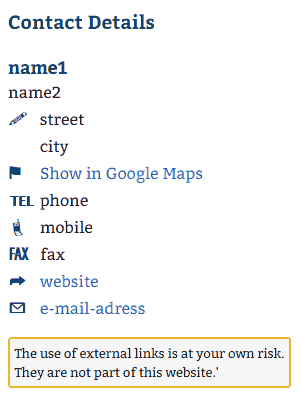
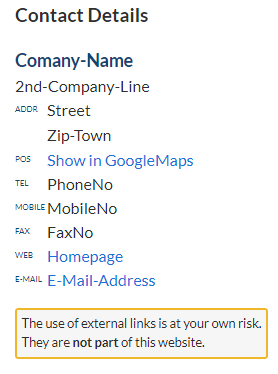
Update for new Yellow API

Changed region(s): [[0.0288, 0.1176, 0.6906, 0.7941], [0.0, 0.8235, 0.9784, 1.0], [0.0288, 0.0, 0.5468, 0.0882]]

diff --git a/adr.css b/adr.css
@@ -1,0 +1,3 @@
+div.adr {border-radius: 0.2rem; border: 0.1rem solid #F2C11E; padding:0.3rem; margin:1rem 0;background-color:#f7f7f7;display:inline-block;font-size:0.8em;}
+span.adr {font-size: 1.1em; color:#094A7A;font-weight:bold;display:inline-block;min-width:1.8em;}
+span.ico {position: relative; top: -0.5em; font-size: 0.5em; color:#094A7A; display:inline-block;min-width:4em;}

diff --git a/adr.php b/adr.php
@@ -3,9 +3,11 @@
 // Copyright (c) 2018 Norbert Simon, nosi@nosi.de
 // This file may be used and distributed under the terms of the public license.
 // 2018-11-12 Initial Release
+// 2019-03-03 Update to new YELLOW API, language stripped from code to files
+// Icons gegen text getauscht
 
 class Yellowadr {
-    const VERSION = "1.0";
+    const VERSION = "1.1";
     public $yellow;         //access to API
     
     // Handle initialisation
@@ -18,36 +20,31 @@ class Yellowadr {
         if ($name=="adr" && $shortcut) {
 			list($who,$street, $city, $phone, $web, $mail,$person,$fax,$mobile) = $this->yellow->toolbox->getTextArgs($text);
 			$root = (!empty($_SERVER['HTTPS']) ? 'https' : 'http') . '://' . $_SERVER['HTTP_HOST'];
-			$lng = $_SERVER['HTTP_ACCEPT_LANGUAGE'];
-			if (preg_match('/de/i', $lng)) {
-				$hdl = 'Kontaktdaten';
-				$hdlink = 'Externer Link zur Anbieterseite';
-				$hdmap = 'In GoogleMaps anzeigen';
-				$hdq = 'Anfrage%20von%20';
-				$hdem = 'E-Mail per Mailprogramm';
-				$hddis = 'Das Nutzen externer Links erfolgt auf eigene Gefahr.<br/>Sie sind <b>kein Bestandteil</b> dieser Webseite(n).';
-			} 
-			else {
-				$hdl = 'Contact Details';
-				$hdlink = 'External link to provider page';
-				$hdmap = 'Show in GoogleMaps';
-				$hdq = 'Inquiry%20from%20';
-				$hdem = 'E-Mail by your E-Mail Program';
-				$hddis = 'The use of external links is at your own risk.<br/>They are <b>not part</b> of this website.';
-			}
+			$lng = $this->yellow->page->get("language");
+						
             $result = preg_replace('/(\n|\s)+/i','+',$street . '+' . $city);
-			$output .='<div><h3>'.$hdl.'</h3>';
+			$output .='<div><h3>'.$this->yellow->text->getTextHtml("adr_contactdata", $lng ).'</h3>';
 			$output .= '<span class="adr">' . $who . '</span>';
 			if(!empty($person)) $output .= '<br/>'. $person;
-			$output .= '<br/><span class="adr">&#128393;</span>'.$street.'<br/><span class="adr">&nbsp;</span>'.$city;
-			$output .='<br/><span class="adr">&#9873;</span><a title="'.$hdmap.'" href="https://www.google.com/maps/place/' . $result .'" target="map">'.$hdmap.'</a>';
-			if(!empty($phone)) $output .= '<br/><span class="adr">&#8481;</span>' . $phone;
-			if(!empty($mobile)) $output .= '<br/><span class="adr">&#128385;</span>' . $mobile;
-			if(!empty($fax)) $output .= '<br/><span class="adr">&#8507;</span>' . $fax;
-			if(!empty($web)) $output .= '<br/><span class="adr">&#10150;</span><a href="https://' . $web . '" target="ex" title="'.$hdlink.'">' . $web . '</a>';
-			if(!empty($mail)) $output .= '<br/><span class="adr">&#9993;</span><a href="mailto://' . $mail . '?subject='.$hdq.$root.$page->location.'" title="'.$hdem.'">' . $mail . '</a>';
+			$output .= '<br/><span class="ico">'.$this->yellow->text->getTextHtml("adr_Address", $lng ).'</span>'.$street.'<br/><span class="adr">&nbsp;</span>'.$city;
+			$output .='<br/><span class="ico">'.$this->yellow->text->getTextHtml("adr_Map", $lng ).'</span><a title="'.$this->yellow->text->getTextHtml("adr_ShowMaps", $lng ).'" href="https://www.google.com/maps/place/' . $result .'" target="map">'.$this->yellow->text->getTextHtml("adr_ShowMaps", $lng ).'</a>';
+			if(!empty($phone)) $output .= '<br/><span class="ico">'.$this->yellow->text->getTextHtml("adr_Tel", $lng ).'</span>' . $phone;
+			if(!empty($mobile)) $output .= '<br/><span class="ico">'.$this->yellow->text->getTextHtml("adr_Mobile", $lng ).'</span>' . $mobile;
+			if(!empty($fax)) $output .= '<br/><span class="ico">'.$this->yellow->text->getTextHtml("adr_Fax", $lng ).'</span>' . $fax;
+			if(!empty($web)) $output .= '<br/><span class="ico">'.$this->yellow->text->getTextHtml("adr_Web", $lng ).'</span><a href="https://' . $web . '" target="ex" title="'.$this->yellow->text->getTextHtml("adr_ExternalLink", $lng ).'">' . $web . '</a>';
+			if(!empty($mail)) $output .= '<br/><span class="ico">'.$this->yellow->text->getTextHtml("adr_Mail", $lng ).'</span><a href="mailto://' . $mail . '?subject='.$this->yellow->text->getTextHtml("adr_InquiredBy", $lng ).$root.$page->location.'" title="'.$this->yellow->text->getTextHtml("adr_ByMail", $lng ).'">' . $mail . '</a>';
 			$output .= '</div>';
-			$output .= '<div class="adr">'.$hddis.'</div>';
+			$output .= '<div class="adr">'.$this->yellow->text->getText("adr_OwnRisk", $lng ).'</div>';
+        }
+        return $output;
+    }
+	
+	// Handle page extra data
+    public function onParsePageExtra($page, $name) {
+        $output = null;
+        if ($name=="header") {
+            $extensionLocation = $this->yellow->system->get("serverBase").$this->yellow->system->get("extensionLocation");
+            $output = "<link rel=\"stylesheet\" type=\"text/css\" media=\"all\" href=\"{$extensionLocation}adr.css\" />\n";
         }
         return $output;
     }

diff --git a/README.md b/README.md
@@ -1,26 +1,26 @@
-# Yellow Plugin Adr
+# Yellow Extention Adr
 
 Creator for well formated adress display
 
 ## The Idea Behind
 
-Sometimes you need a more or less big amount of adress data *well formated* on a web site. To ease this, I created this plugin.
+Sometimes you need a more or less big amount of different adress data *well formated* on a web site. To ease this, I created this extention for Yellow-CMS.
 
 ## How do I Install This?
 
 1. Download and install [Datenstrom Yellow CMS](https://github.com/datenstrom/yellow/).
-2. Download [adr plugin](https://github.com/BsNoSi/yellow-plugin-adr/archive/master.zip). If you are using Safari, right click and select 'Download file as'.
-3. Copy the `yellow-plugin-adr-master.zip` into the `system/plugins` folder.
+2. Download [adr plugin](https://github.com/BsNoSi/yellow-features/raw/master/zip/adr.zip). If you are using Safari, right click and select 'Download file as'.
+3. Copy the `adr-master.zip` into the `system/plugins` folder.
 
-To uninstall simply delete the [plugin files](https://github.com/BsNoSi/yellow-plugin-ontime/blob/master/update.ini).
+To uninstall simply delete the [extention files](https://github.com/BsNoSi/yellow-features/blob/master/adr/extention.ini).
 
-## Using the adr plugin
+## Using the adr extention
 
 `[adr name1 street city phone website e-mail-adress name2 fax mobile]`
 
-All given parts are displayed in a structured form, you can leave out what you want. The order follows (descending my) typical availability/need of information details.
+All given parts are displayed in a structured form. You can leave out what you want. The order follows (descending my) typical availability and need of information details.
 
-The output is in different order, only available (given) information is displayed and may look like this (see additional css below):
+The output is in different order, only available (given) information is displayed. To skip parts use a hyphen. A result may look like this:
 
 ![sample-display](sample-display.png)
 
@@ -31,50 +31,10 @@ There is no check if
 - the address has a meaningful display in google maps
 - any of the given addresses are valid
 
-### Translations
+### Additional Files
 
-The plugin contains English and German translations. You may add your language by inserting it into the php file:
-
-```php+HTML
-if (preg_match('/de/i', $lng)) {
-				$hdl = 'Kontaktdaten';
-				$hdlink = 'Externer Link zur Anbieterseite';
-				$hdmap = 'In GoogleMaps anzeigen';
-				$hdq = 'Anfrage%20von%20';
-				$hdem = 'E-Mail per Mailprogramm';
-				$hddis = 'Das Nutzen externer Links erfolgt auf eigene Gefahr.<br/>Sie sind <b>kein Bestandteil</b> dieser Webseite(n).';
-			} 
-```
-Here you can insert an 
-
-```php
-else
-if (preg_match('/yourlanguage/i', $lng)) {
-…
-}
-```
-
-copying the first part and changing the language and translations as required. Or you simply translate the German area to your required language and keep English as fallback.
-
-```php+HTML
-			else {
-				$hdl = 'Contact Details';
-				$hdlink = 'External link to provider page';
-				$hdmap = 'Show in GoogleMaps';
-				$hdq = 'Inquiry%20from%20';
-				$hdem = 'E-Mail by your E-Mail Program';
-				$hddis = 'The use of external links is at your own risk.<br/>They are <b>not part</b> of this website.';
-```
-
-## Additional css
-
-To get the utf-8 symbols *well aligned* and to highlight the disclaimer for external links you may add this to your style sheet and modify it depending to your needs:
-
-```css
-div.adr {border-radius: 0.2rem; border: 0.1rem solid #F2C11E; padding:0.3rem; margin:1rem 0;background-color:#f7f7f7;display:inline-block;font-size:0.8em;}
-span.adr {font-size: 1.1em; color:#094A7A;font-weight:bold;display:inline-block;min-width:1.8em;}
-```
-
+- Translation files for German, English and French are included. You may change the texts to you needs.
+- The css to achieve the displayed result above is included. You may change it to your theme style.
 
 
 ## Developer
